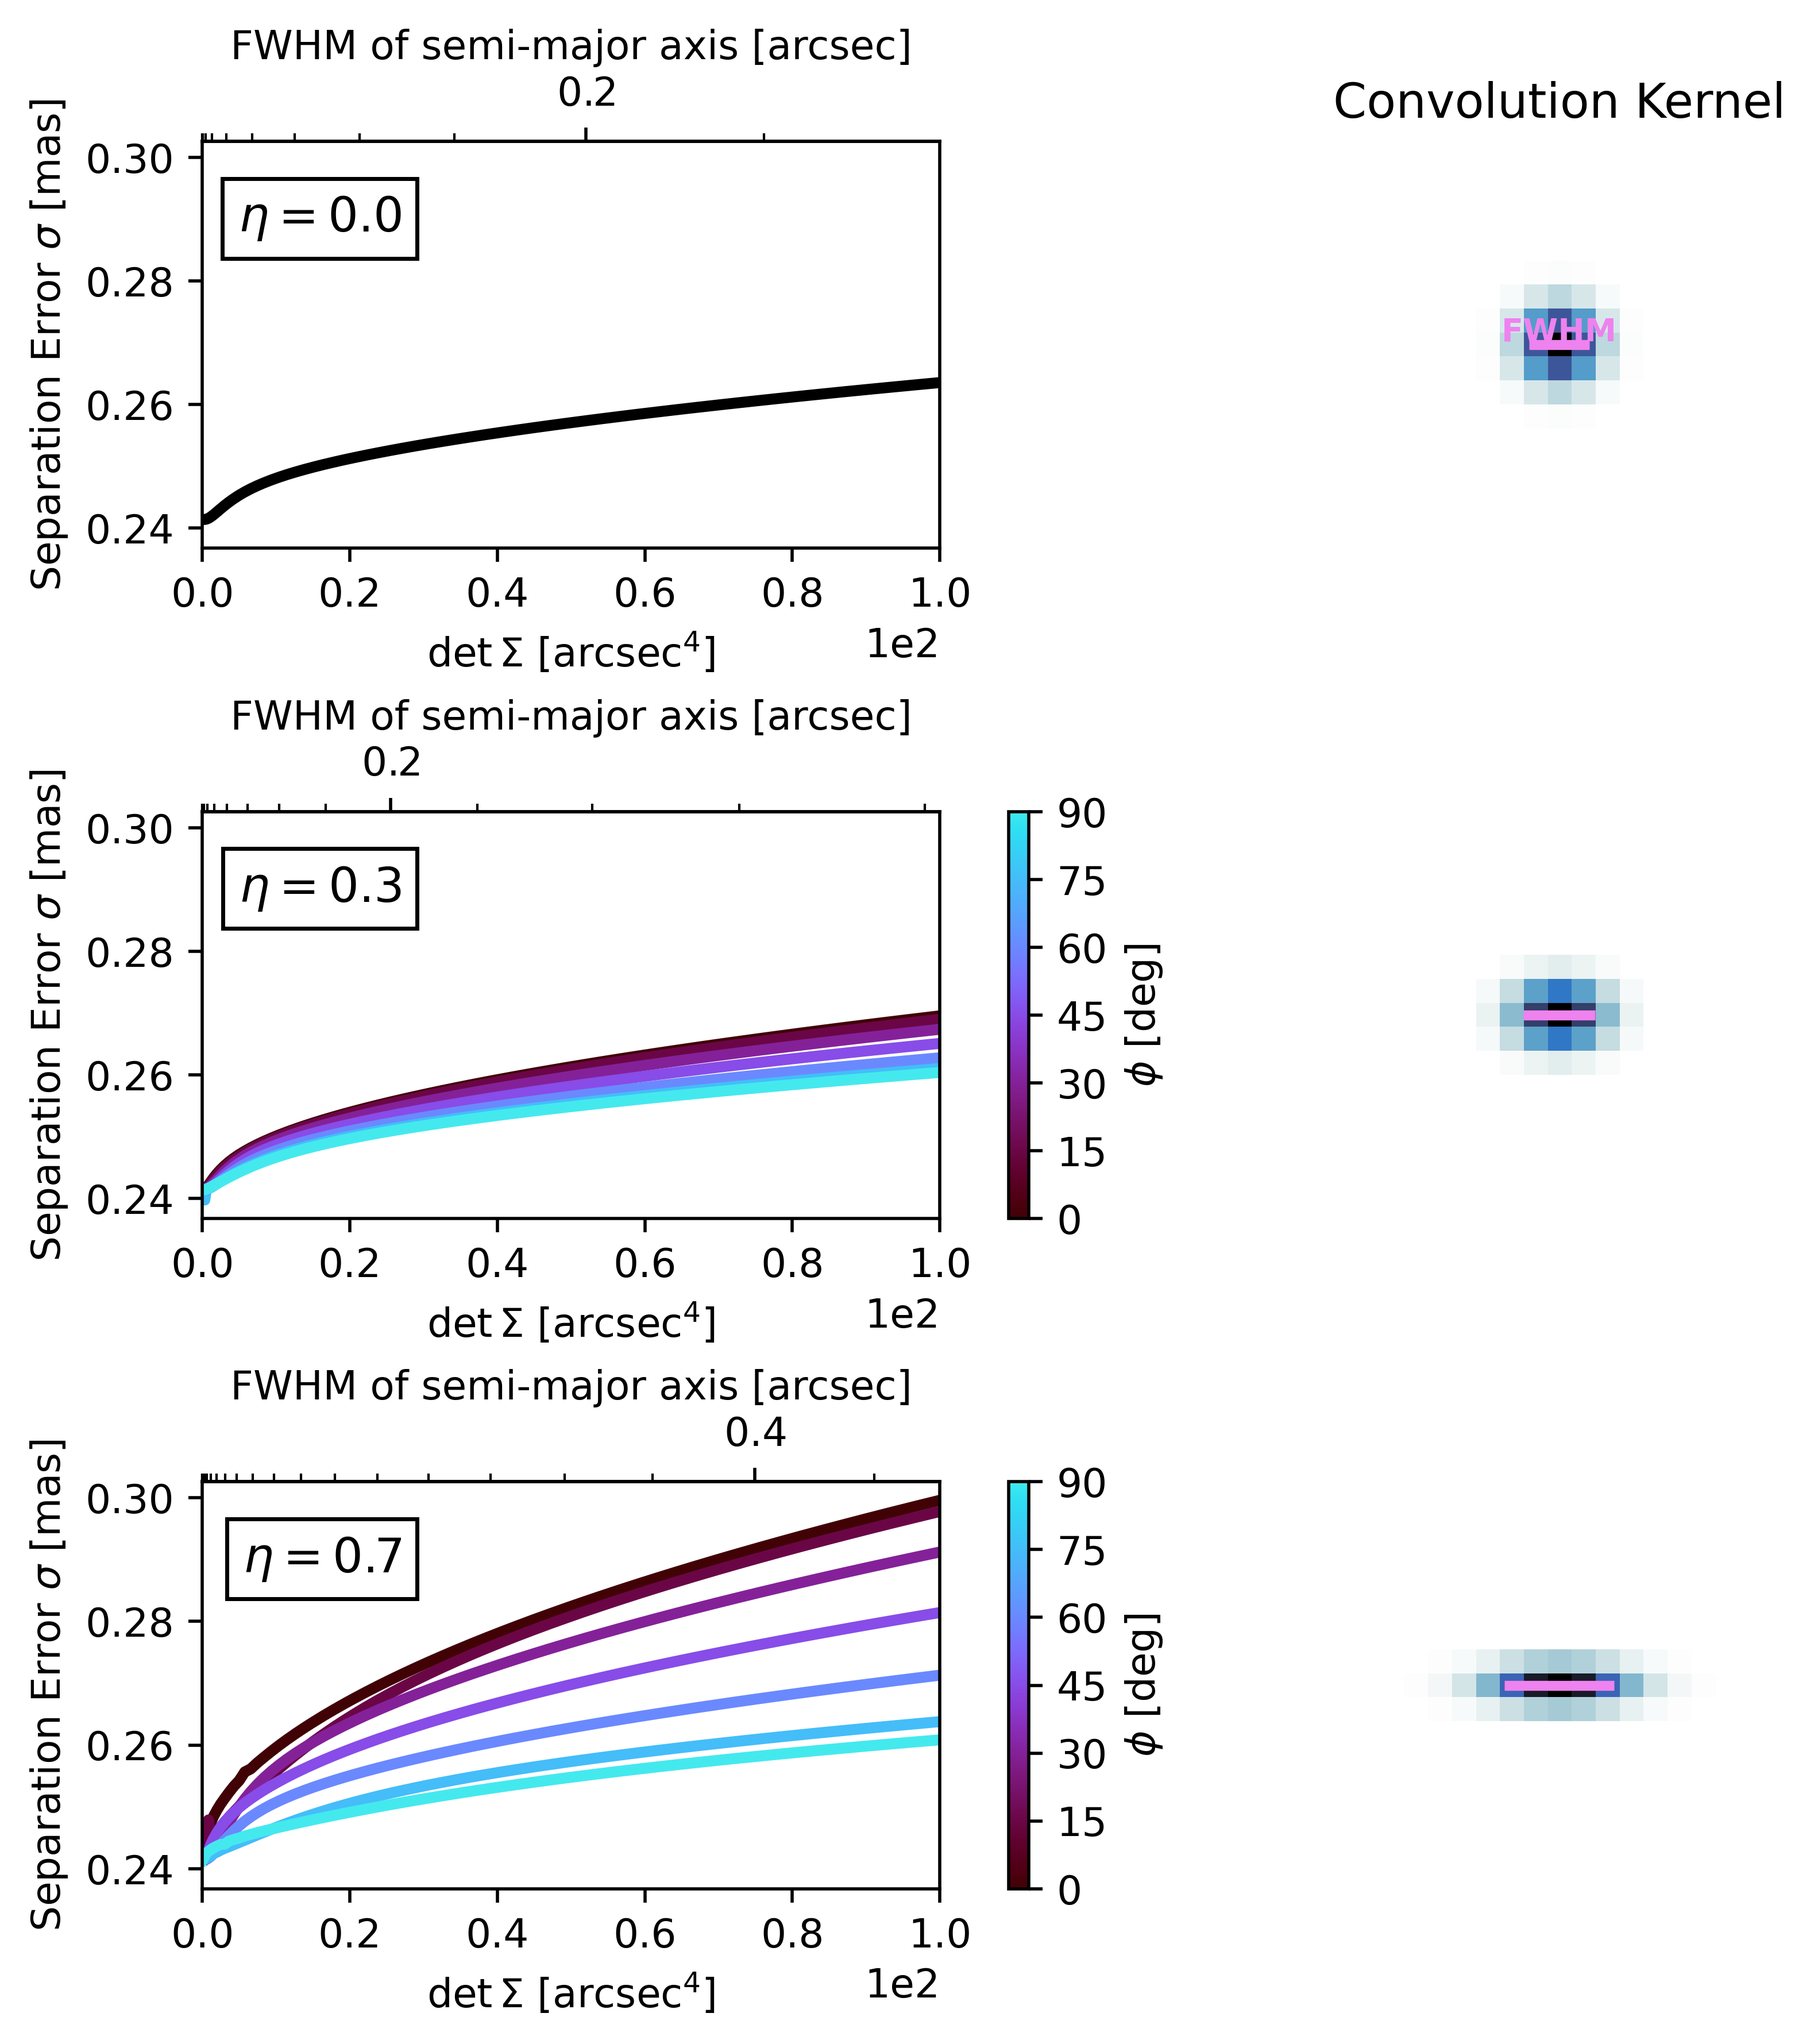
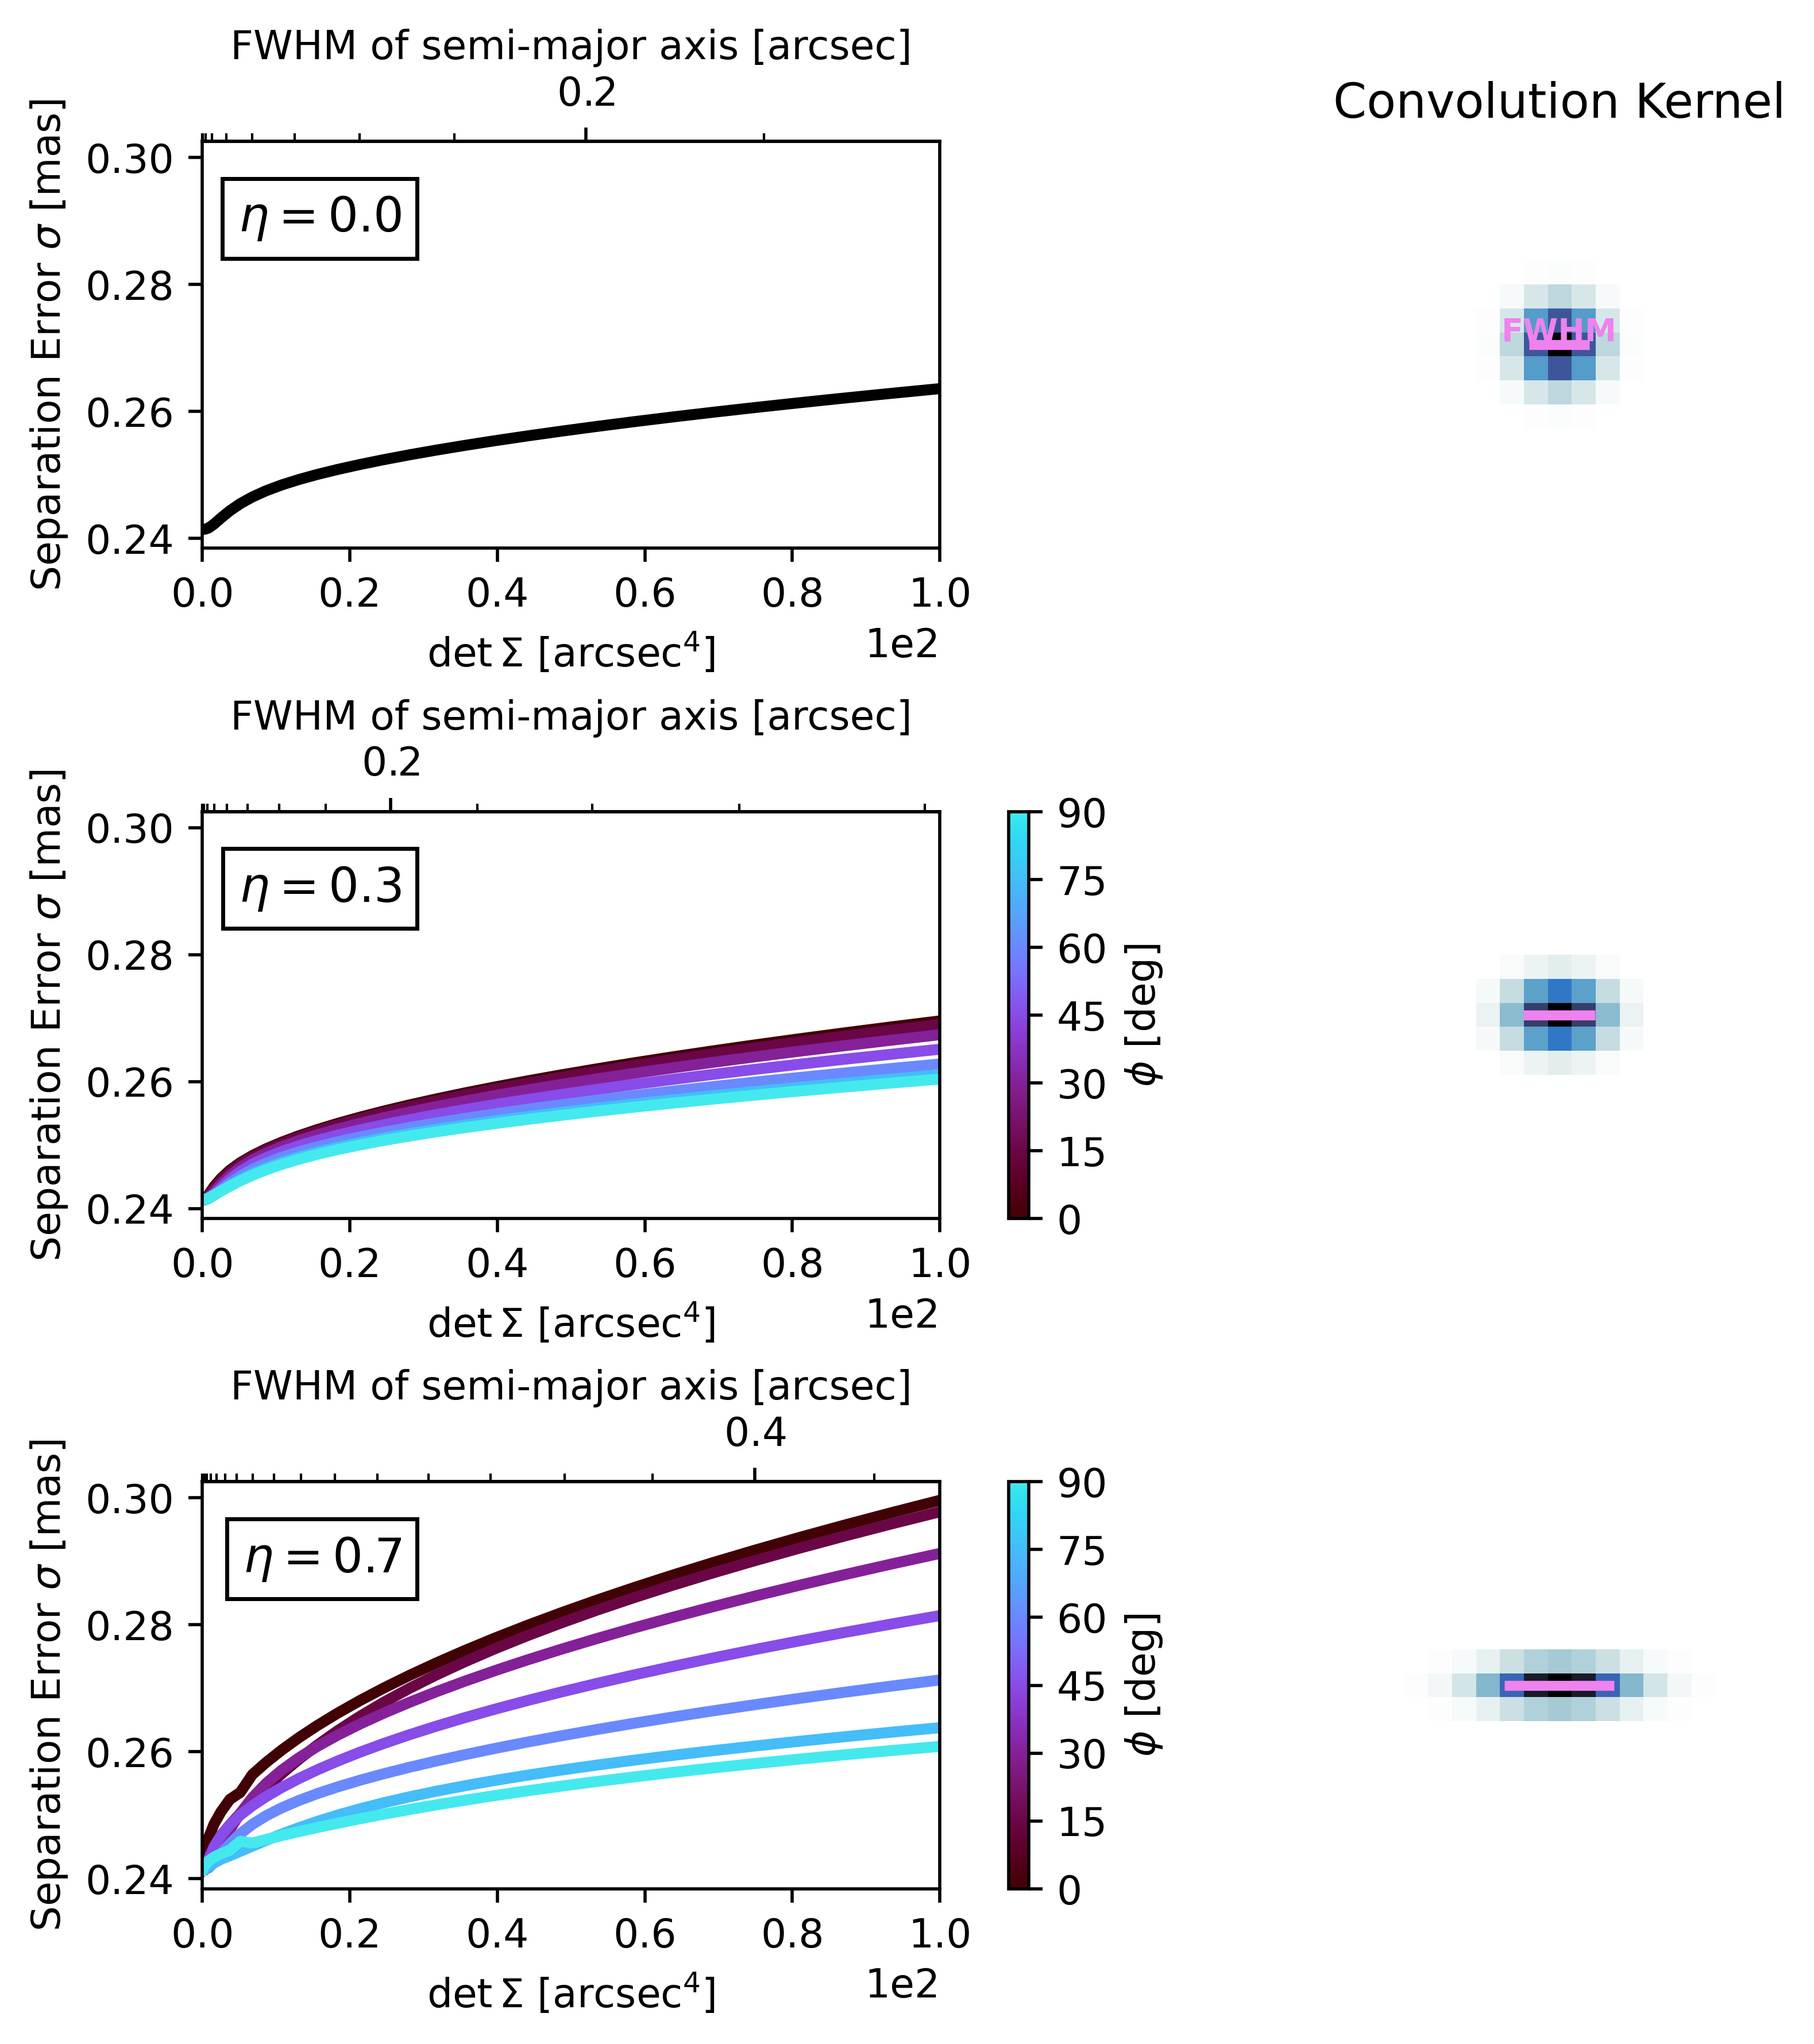
trying again because

diff --git a/crossfitting.py b/crossfitting.py
@@ -600,8 +600,8 @@ def grad_fn(grads, args={}):
                 if "Jitter.r" in optimisers
                 else grads
             )
-            a = -5
-            A = 1e-4
+            a = -4
+            A = 1e-3
             grads = (
                 grads.multiply("Jitter.shear", A * mag**a / b**a)
                 if "Jitter.shear" in optimisers

diff --git a/FIA_mvn.py b/FIA_mvn.py
@@ -127,7 +127,7 @@ test_rs = powspace(
     100,
     # fwhm_to_det(1.01 * det_pscale, test_shears[0]),
     2,
-    60,
+    30,
 )
 
 # saving test points
